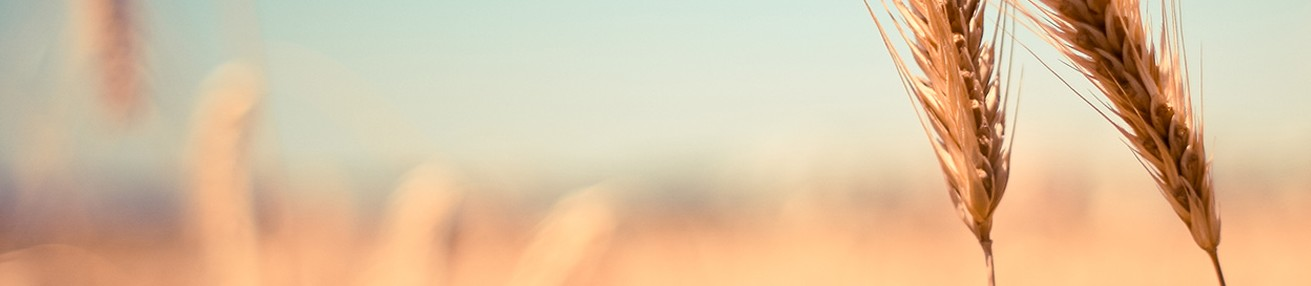
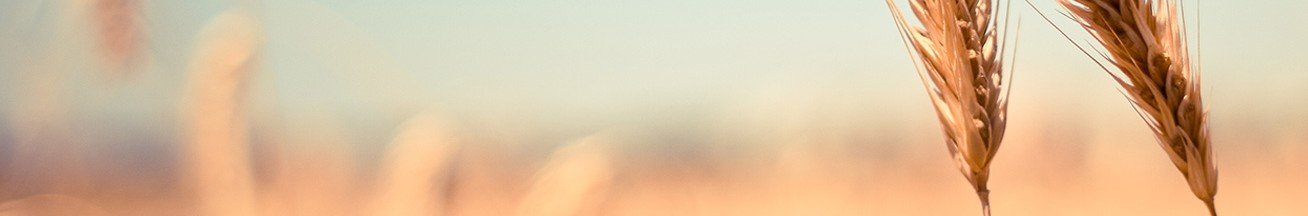
doc

diff --git a/DomainEvents.html b/DomainEvents.html
@@ -17,7 +17,7 @@
       <table width="100%" border="0" cellspacing="0" cellpadding="0" height="1" bordercolor="#000000">
         <tr> 
           <td> 
-            <table width="100%" border="0" cellspacing="0" cellpadding="0" height="280" bgcolor="#000000" background="images/background.jpg">
+            <table width="100%" border="0" cellspacing="0" cellpadding="0" height="200" bgcolor="#000000" background="images/background.jpg">
               <tr> 
                 <td></td>
               </tr>

diff --git a/Immutability.html b/Immutability.html
@@ -17,7 +17,7 @@
       <table width="100%" border="0" cellspacing="0" cellpadding="0" height="1" bordercolor="#000000">
         <tr> 
           <td> 
-            <table width="100%" border="0" cellspacing="0" cellpadding="0" height="280" bgcolor="#000000" background="images/background.jpg">
+            <table width="100%" border="0" cellspacing="0" cellpadding="0" height="200" bgcolor="#000000" background="images/background.jpg">
               <tr> 
                 <td></td>
               </tr>

diff --git a/bq.htm b/bq.htm
@@ -17,7 +17,7 @@
       <table width="100%" border="0" cellspacing="0" cellpadding="0" height="1" bordercolor="#000000">
         <tr> 
           <td> 
-            <table width="100%" border="0" cellspacing="0" cellpadding="0" height="280" bgcolor="#000000" background="images/background.jpg">
+            <table width="100%" border="0" cellspacing="0" cellpadding="0" height="200" bgcolor="#000000" background="images/background.jpg">
               <tr> 
                 <td></td>
               </tr>

diff --git a/ces.html b/ces.html
@@ -17,7 +17,7 @@
       <table width="100%" border="0" cellspacing="0" cellpadding="0" height="1" bordercolor="#000000">
         <tr> 
           <td> 
-            <table width="100%" border="0" cellspacing="0" cellpadding="0" height="280" bgcolor="#000000" background="images/background.jpg">
+            <table width="100%" border="0" cellspacing="0" cellpadding="0" height="200" bgcolor="#000000" background="images/background.jpg">
               <tr> 
                 <td></td>
               </tr>

diff --git a/command.html b/command.html
@@ -17,7 +17,7 @@
       <table width="100%" border="0" cellspacing="0" cellpadding="0" height="1" bordercolor="#000000">
         <tr> 
           <td> 
-            <table width="100%" border="0" cellspacing="0" cellpadding="0" height="280" bgcolor="#000000" background="images/background.jpg">
+            <table width="100%" border="0" cellspacing="0" cellpadding="0" height="200" bgcolor="#000000" background="images/background.jpg">
               <tr> 
                 <td></td>
               </tr>

diff --git a/dci.html b/dci.html
@@ -17,7 +17,7 @@
       <table width="100%" border="0" cellspacing="0" cellpadding="0" height="1" bordercolor="#000000">
         <tr> 
           <td> 
-            <table width="100%" border="0" cellspacing="0" cellpadding="0" height="280" bgcolor="#000000" background="images/background.jpg">
+            <table width="100%" border="0" cellspacing="0" cellpadding="0" height="200" bgcolor="#000000" background="images/background.jpg">
               <tr> 
                 <td></td>
               </tr>

diff --git a/doc.htm b/doc.htm
@@ -21,7 +21,7 @@
       <table width="100%" border="0" cellspacing="0" cellpadding="0" height="1" bordercolor="#000000">
         <tr> 
           <td> 
-            <table width="100%" border="0" cellspacing="0" cellpadding="0" height="280" bgcolor="#000000" background="images/background.jpg">
+            <table width="100%" border="0" cellspacing="0" cellpadding="0" height="200" bgcolor="#000000" background="images/background.jpg">
               <tr> 
                 <td></td>
               </tr>

diff --git a/index.html b/index.html
@@ -21,7 +21,7 @@
       <table width="100%" border="0" cellspacing="0" cellpadding="0" height="1" bordercolor="#000000">
         <tr> 
           <td> 
-            <table width="100%" border="0" cellspacing="0" cellpadding="0" height="280" bgcolor="#000000" background="images/background.jpg">
+            <table width="100%" border="0" cellspacing="0" cellpadding="0" height="200" bgcolor="#000000" background="images/background.jpg">
               <tr> 
                 <td></td>
               </tr>

diff --git a/jpetstore.htm b/jpetstore.htm
@@ -17,7 +17,7 @@
       <table width="100%" border="0" cellspacing="0" cellpadding="0" height="1" bordercolor="#000000">
         <tr> 
           <td> 
-            <table width="100%" border="0" cellspacing="0" cellpadding="0" height="280" bgcolor="#000000" background="images/background.jpg">
+            <table width="100%" border="0" cellspacing="0" cellpadding="0" height="200" bgcolor="#000000" background="images/background.jpg">
               <tr> 
                 <td></td>
               </tr>

diff --git a/match.html b/match.html
@@ -17,7 +17,7 @@
       <table width="100%" border="0" cellspacing="0" cellpadding="0" height="1" bordercolor="#000000">
         <tr> 
           <td> 
-            <table width="100%" border="0" cellspacing="0" cellpadding="0" height="280" bgcolor="#000000" background="images/background.jpg">
+            <table width="100%" border="0" cellspacing="0" cellpadding="0" height="200" bgcolor="#000000" background="images/background.jpg">
               <tr> 
                 <td></td>
               </tr>

diff --git a/non-blocking.html b/non-blocking.html
@@ -17,7 +17,7 @@
       <table width="100%" border="0" cellspacing="0" cellpadding="0" height="1" bordercolor="#000000">
         <tr> 
           <td> 
-            <table width="100%" border="0" cellspacing="0" cellpadding="0" height="280" bgcolor="#000000" background="images/background.jpg">
+            <table width="100%" border="0" cellspacing="0" cellpadding="0" height="200" bgcolor="#000000" background="images/background.jpg">
               <tr> 
                 <td></td>
               </tr>

diff --git a/quickconf.html b/quickconf.html
@@ -17,7 +17,7 @@
       <table width="100%" border="0" cellspacing="0" cellpadding="0" height="1" bordercolor="#000000">
         <tr> 
           <td> 
-            <table width="100%" border="0" cellspacing="0" cellpadding="0" height="280" bgcolor="#000000" background="images/background.jpg">
+            <table width="100%" border="0" cellspacing="0" cellpadding="0" height="200" bgcolor="#000000" background="images/background.jpg">
               <tr> 
                 <td></td>
               </tr>
